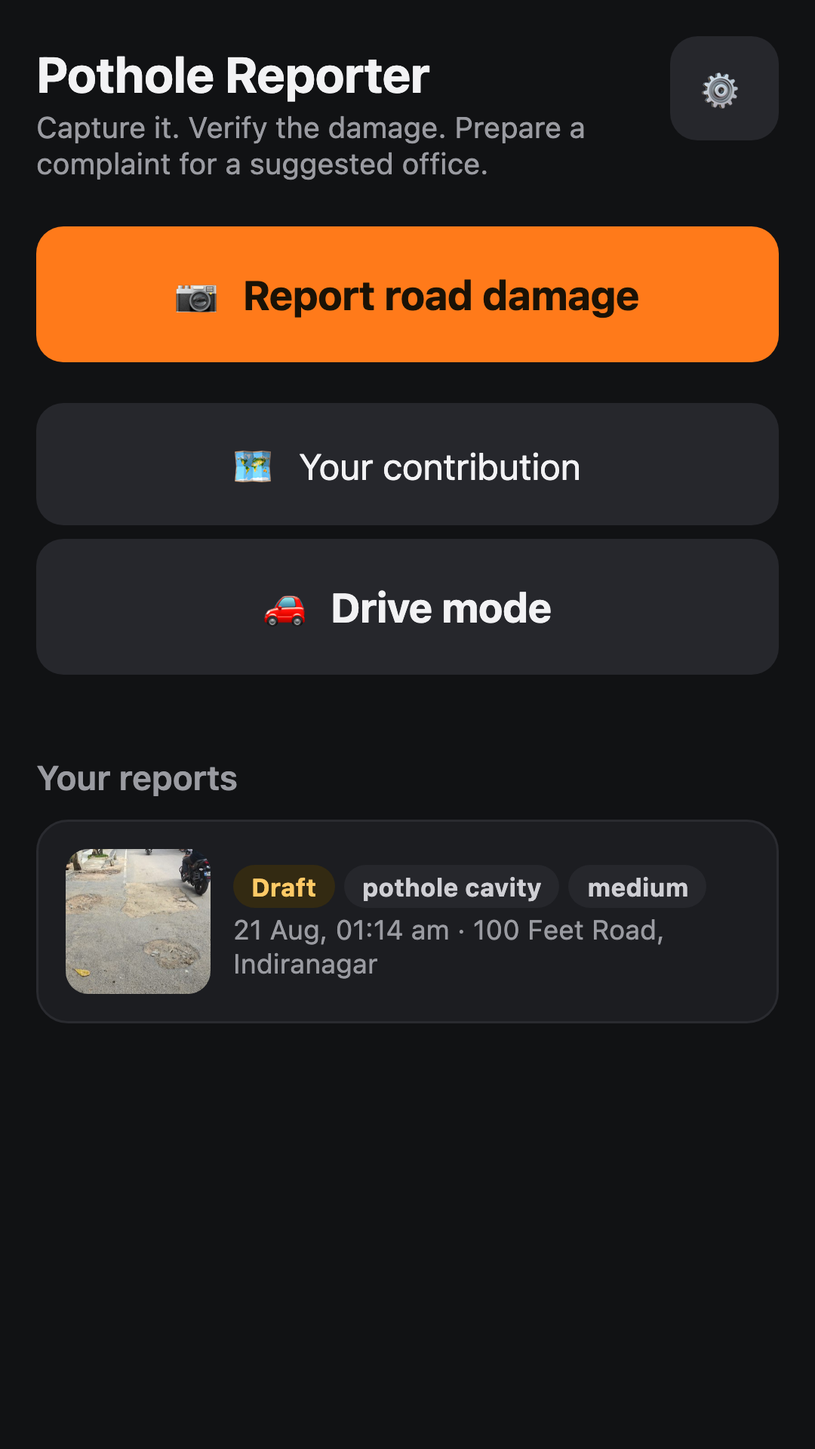
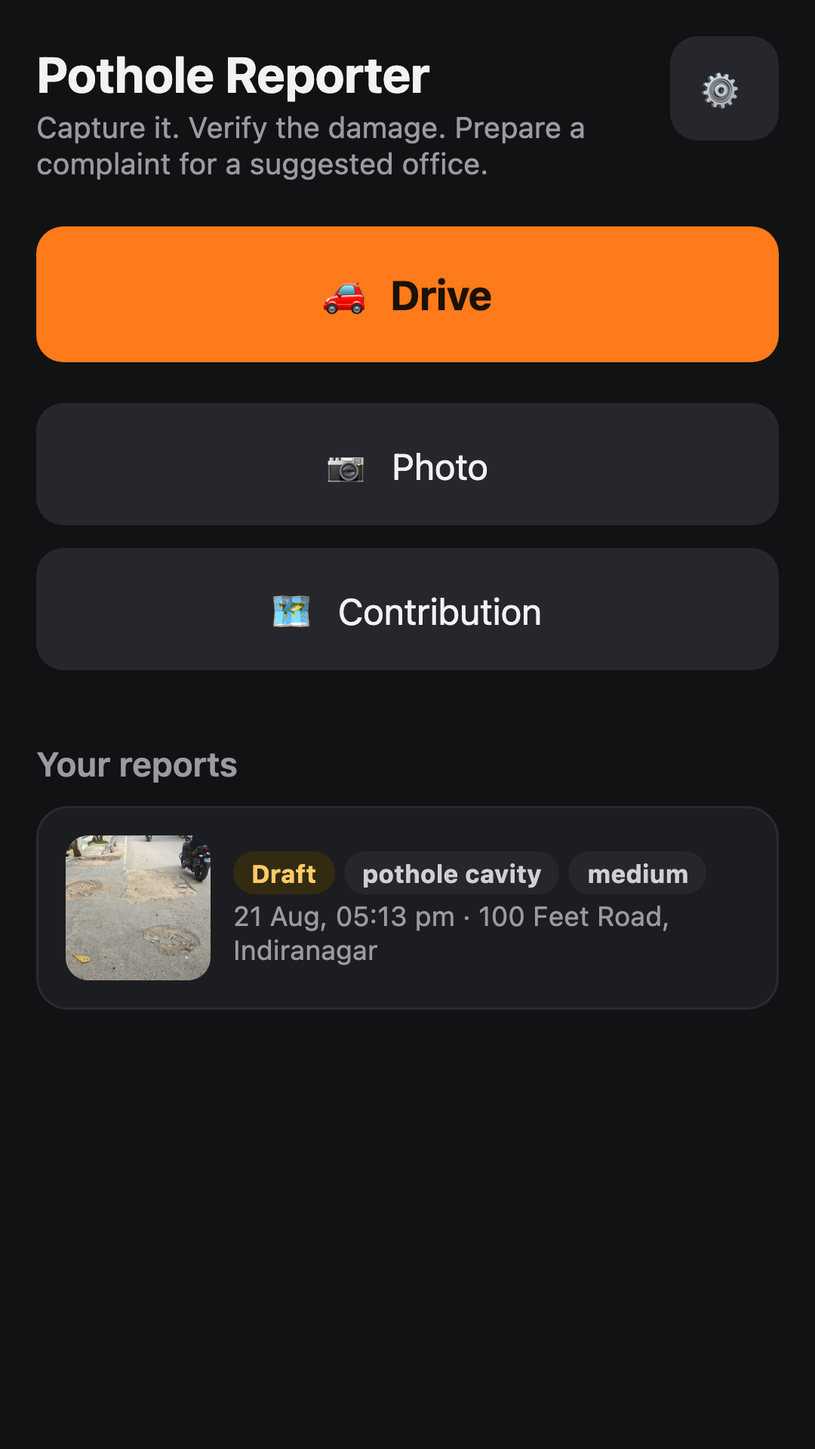
Simplify and prioritize home actions

diff --git a/android-app/www/index.html b/android-app/www/index.html
@@ -73,9 +73,9 @@
   <div id="banner" class="banner"></div>
 
   <div id="home">
-    <button class="primary" id="captureBtn">&#128247; &nbsp;Report road damage</button>
-    <button class="ghost" id="dashBtn" style="width:100%;margin-bottom:14px">&#128506;&#65039; &nbsp;Your contribution</button>
-    <button class="primary" id="driveBtn" style="background:#26272c;color:#f2f2f4;margin-top:-8px">&#128663; &nbsp;Drive mode</button>
+    <button class="primary" id="driveBtn">&#128663; &nbsp;Drive</button>
+    <button class="ghost" id="captureBtn" style="width:100%;margin-bottom:10px">&#128247; &nbsp;Photo</button>
+    <button class="ghost" id="dashBtn" style="width:100%;margin-bottom:14px">&#128506;&#65039; &nbsp;Contribution</button>
     <input type="file" id="fileInput" accept="image/*" capture="environment" class="hidden">
     <h2 id="reportsTitle">Your reports</h2>
     <div id="list"><div class="empty">No reports yet.</div></div>
@@ -225,8 +225,8 @@ const $ = (id) => document.getElementById(id);
 const I18N = {
   en: {
     sub: "Capture it. Verify the damage. Prepare a complaint for a suggested office.",
-    report_btn: "&#128247; &nbsp;Report road damage",
-    drive_btn: "&#128663; &nbsp;Drive mode",
+    report_btn: "&#128247; &nbsp;Photo",
+    drive_btn: "&#128663; &nbsp;Drive",
     your_reports: "Your reports",
     no_reports: "No reports yet.",
     banner_setup: "Setup needed: tap the gear icon and paste your OpenAI API key.",
@@ -265,7 +265,7 @@ const I18N = {
     no_address_help: "Road damage was confirmed and the responsible local body identified, but the app holds no official email for it and will not guess one. The photo and location are saved; the address can be added to the directory.",
     no_location_help: "Road damage was confirmed, but without a GPS fix the app cannot tell which corporation is responsible, so it will not address a complaint. The photo is saved.",
     review_btn: "Review and label frames", export_btn: "Export labelled dataset",
-    dash_btn: "&#128506;&#65039; &nbsp;Your contribution", dash_title: "Your contribution",
+    dash_btn: "&#128506;&#65039; &nbsp;Contribution", dash_title: "Your contribution",
     dash_range: "{days} of reporting · first on {first}",
     dash_empty: "No road damage reported yet. Your map fills up as you drive.",
     day_one: "1 day", day_many: "{n} days",
@@ -383,8 +383,8 @@ const I18N = {
   },
   kn: {
     sub: "ಫೋಟೋ ತೆಗೆಯಿರಿ. ಹಾನಿ ಪರಿಶೀಲಿಸಿ. ಸೂಚಿಸಿದ ಕಚೇರಿಗೆ ದೂರು ಕರಡು ಸಿದ್ಧಪಡಿಸಿ.",
-    report_btn: "&#128247; &nbsp;ರಸ್ತೆ ಹಾನಿ ವರದಿ ಮಾಡಿ",
-    drive_btn: "&#128663; &nbsp;ಡ್ರೈವ್ ಮೋಡ್",
+    report_btn: "&#128247; &nbsp;ಫೋಟೋ",
+    drive_btn: "&#128663; &nbsp;ಡ್ರೈವ್",
     your_reports: "ನಿಮ್ಮ ವರದಿಗಳು",
     no_reports: "ಇನ್ನೂ ವರದಿಗಳಿಲ್ಲ. ಗುಂಡಿ ಹುಡುಕಲು ಹೊರಡಿ.",
     banner_setup: "ಸೆಟಪ್ ಅಗತ್ಯ: ಗಿಯರ್ ಐಕಾನ್ ಒತ್ತಿ ನಿಮ್ಮ OpenAI API ಕೀ ಅಂಟಿಸಿ.",
@@ -423,7 +423,7 @@ const I18N = {
     no_address_help: "ಗುಂಡಿ ದೃಢಪಟ್ಟಿದೆ ಮತ್ತು ಜವಾಬ್ದಾರ ಸಂಸ್ಥೆ ಗುರುತಿಸಲಾಗಿದೆ, ಆದರೆ ಅದರ ಅಧಿಕೃತ ಇಮೇಲ್ ಆ್ಯಪ್ನಲ್ಲಿ ಇಲ್ಲ, ಮತ್ತು ಊಹಿಸುವುದಿಲ್ಲ. ಫೋಟೋ ಉಳಿಸಲಾಗಿದೆ.",
     no_location_help: "ಗುಂಡಿ ದೃಢಪಟ್ಟಿದೆ, ಆದರೆ GPS ಇಲ್ಲದೆ ಯಾವ ಪಾಲಿಕೆ ಜವಾಬ್ದಾರಿ ಎಂದು ತಿಳಿಯದು, ಆದ್ದರಿಂದ ದೂರು ಸಿದ್ಧಪಡಿಸಿಲ್ಲ. ಫೋಟೋ ಉಳಿಸಲಾಗಿದೆ.",
     review_btn: "ಫ್ರೇಮ್ಗಳನ್ನು ಪರಿಶೀಲಿಸಿ ಮತ್ತು ಗುರುತಿಸಿ", export_btn: "ಗುರುತಿಸಿದ ಡೇಟಾಸೆಟ್ ರಫ್ತು ಮಾಡಿ",
-    dash_btn: "&#128506;&#65039; &nbsp;ನಿಮ್ಮ ಕೊಡುಗೆ", dash_title: "ನಿಮ್ಮ ಕೊಡುಗೆ",
+    dash_btn: "&#128506;&#65039; &nbsp;ಕೊಡುಗೆ", dash_title: "ನಿಮ್ಮ ಕೊಡುಗೆ",
     dash_range: "{days} ವರದಿ · ಮೊದಲನೆಯದು {first}",
     dash_empty: "ಇನ್ನೂ ಗುಂಡಿಗಳ ವರದಿ ಇಲ್ಲ. ಡ್ರೈವ್ ಮಾಡಿದಂತೆ ನಕ್ಷೆ ತುಂಬುತ್ತದೆ.",
     day_one: "1 ದಿನ", day_many: "{n} ದಿನಗಳು",
@@ -534,8 +534,8 @@ const I18N = {
   },
   mr: {
     sub: "फोटो घ्या. नुकसान पडताळा. सुचवलेल्या कार्यालयासाठी तक्रारीचा मसुदा तयार करा.",
-    report_btn: "&#128247; &nbsp;रस्त्याचे नुकसान नोंदवा",
-    drive_btn: "&#128663; &nbsp;ड्राइव्ह मोड",
+    report_btn: "&#128247; &nbsp;फोटो",
+    drive_btn: "&#128663; &nbsp;ड्राइव्ह",
     your_reports: "तुमचे अहवाल",
     no_reports: "अजून कोणतेही अहवाल नाहीत.",
     banner_setup: "सेटअप आवश्यक: गिअर चिन्हावर टॅप करून तुमची OpenAI API की पेस्ट करा.",
@@ -576,7 +576,7 @@ const I18N = {
     no_address_help: "जबाबदार स्थानिक संस्था निश्चित झाली, पण तिचा अधिकृत ईमेल उपलब्ध नाही आणि अॅप अंदाजाने पत्ता वापरणार नाही. फोटो आणि स्थान जतन केले आहे.",
     no_location_help: "रस्त्याचे नुकसान निश्चित झाले, पण GPS स्थानाशिवाय जबाबदार महानगरपालिका ओळखता येत नाही. फोटो जतन केला आहे.",
     review_btn: "फ्रेम्स तपासा आणि लेबल करा", export_btn: "लेबल केलेला डेटासेट निर्यात करा",
-    dash_btn: "&#128506;&#65039; &nbsp;तुमचे योगदान", dash_title: "तुमचे योगदान",
+    dash_btn: "&#128506;&#65039; &nbsp;योगदान", dash_title: "तुमचे योगदान",
     dash_range: "{days} चा अहवाल · पहिली नोंद {first}",
     dash_empty: "अजून रस्त्याचे नुकसान नोंदवलेले नाही. तुम्ही वाहन चालवल्यावर नकाशा भरत जाईल.",
     day_one: "1 दिवस", day_many: "{n} दिवस",
@@ -675,8 +675,8 @@ const I18N = {
   },
   bn: {
     sub: "ছবি তুলুন। ক্ষতি যাচাই করুন। প্রস্তাবিত দপ্তরের জন্য অভিযোগের খসড়া তৈরি করুন।",
-    report_btn: "&#128247; &nbsp;রাস্তার ক্ষতির অভিযোগ জানান",
-    drive_btn: "&#128663; &nbsp;ড্রাইভ মোড",
+    report_btn: "&#128247; &nbsp;ছবি",
+    drive_btn: "&#128663; &nbsp;ড্রাইভ",
     your_reports: "আপনার রিপোর্ট",
     no_reports: "এখনও কোনও রিপোর্ট নেই।",
     banner_setup: "সেটআপ প্রয়োজন: গিয়ার আইকনে ট্যাপ করে আপনার OpenAI API key পেস্ট করুন।",
@@ -715,7 +715,7 @@ const I18N = {
     no_address_help: "রাস্তার ক্ষতি এবং সংশ্লিষ্ট স্থানীয় সংস্থা শনাক্ত হয়েছে, কিন্তু অ্যাপে তার কোনও সরকারি ইমেল নেই এবং অ্যাপটি ঠিকানা অনুমান করবে না। ছবি ও অবস্থান সংরক্ষিত আছে; যাচাই করা ঠিকানা পরে ডিরেক্টরিতে যোগ করা যাবে।",
     no_location_help: "রাস্তার ক্ষতি নিশ্চিত হয়েছে, কিন্তু GPS অবস্থান ছাড়া কোন পৌরসংস্থা দায়িত্বে তা জানা যায় না। তাই অভিযোগে কোনও প্রাপক দেওয়া হয়নি। ছবিটি সংরক্ষিত আছে।",
     review_btn: "ফ্রেম যাচাই করে লেবেল দিন", export_btn: "লেবেল দেওয়া ডেটাসেট এক্সপোর্ট করুন",
-    dash_btn: "&#128506;&#65039; &nbsp;আপনার অবদান", dash_title: "আপনার অবদান",
+    dash_btn: "&#128506;&#65039; &nbsp;অবদান", dash_title: "আপনার অবদান",
     dash_range: "{days} ধরে রিপোর্ট · প্রথম রিপোর্ট {first}",
     dash_empty: "এখনও রাস্তার কোনও ক্ষতি রিপোর্ট করা হয়নি। ড্রাইভ করার সঙ্গে সঙ্গে আপনার মানচিত্র পূর্ণ হবে।",
     day_one: "1 দিন", day_many: "{n} দিন",

diff --git a/static/index.html b/static/index.html
@@ -73,9 +73,9 @@
   <div id="banner" class="banner"></div>
 
   <div id="home">
-    <button class="primary" id="captureBtn">&#128247; &nbsp;Report road damage</button>
-    <button class="ghost" id="dashBtn" style="width:100%;margin-bottom:14px">&#128506;&#65039; &nbsp;Your contribution</button>
-    <button class="primary" id="driveBtn" style="background:#26272c;color:#f2f2f4;margin-top:-8px">&#128663; &nbsp;Drive mode</button>
+    <button class="primary" id="driveBtn">&#128663; &nbsp;Drive</button>
+    <button class="ghost" id="captureBtn" style="width:100%;margin-bottom:10px">&#128247; &nbsp;Photo</button>
+    <button class="ghost" id="dashBtn" style="width:100%;margin-bottom:14px">&#128506;&#65039; &nbsp;Contribution</button>
     <input type="file" id="fileInput" accept="image/*" capture="environment" class="hidden">
     <h2 id="reportsTitle">Your reports</h2>
     <div id="list"><div class="empty">No reports yet.</div></div>
@@ -225,8 +225,8 @@ const $ = (id) => document.getElementById(id);
 const I18N = {
   en: {
     sub: "Capture it. Verify the damage. Prepare a complaint for a suggested office.",
-    report_btn: "&#128247; &nbsp;Report road damage",
-    drive_btn: "&#128663; &nbsp;Drive mode",
+    report_btn: "&#128247; &nbsp;Photo",
+    drive_btn: "&#128663; &nbsp;Drive",
     your_reports: "Your reports",
     no_reports: "No reports yet.",
     banner_setup: "Setup needed: tap the gear icon and paste your OpenAI API key.",
@@ -265,7 +265,7 @@ const I18N = {
     no_address_help: "Road damage was confirmed and the responsible local body identified, but the app holds no official email for it and will not guess one. The photo and location are saved; the address can be added to the directory.",
     no_location_help: "Road damage was confirmed, but without a GPS fix the app cannot tell which corporation is responsible, so it will not address a complaint. The photo is saved.",
     review_btn: "Review and label frames", export_btn: "Export labelled dataset",
-    dash_btn: "&#128506;&#65039; &nbsp;Your contribution", dash_title: "Your contribution",
+    dash_btn: "&#128506;&#65039; &nbsp;Contribution", dash_title: "Your contribution",
     dash_range: "{days} of reporting · first on {first}",
     dash_empty: "No road damage reported yet. Your map fills up as you drive.",
     day_one: "1 day", day_many: "{n} days",
@@ -383,8 +383,8 @@ const I18N = {
   },
   kn: {
     sub: "ಫೋಟೋ ತೆಗೆಯಿರಿ. ಹಾನಿ ಪರಿಶೀಲಿಸಿ. ಸೂಚಿಸಿದ ಕಚೇರಿಗೆ ದೂರು ಕರಡು ಸಿದ್ಧಪಡಿಸಿ.",
-    report_btn: "&#128247; &nbsp;ರಸ್ತೆ ಹಾನಿ ವರದಿ ಮಾಡಿ",
-    drive_btn: "&#128663; &nbsp;ಡ್ರೈವ್ ಮೋಡ್",
+    report_btn: "&#128247; &nbsp;ಫೋಟೋ",
+    drive_btn: "&#128663; &nbsp;ಡ್ರೈವ್",
     your_reports: "ನಿಮ್ಮ ವರದಿಗಳು",
     no_reports: "ಇನ್ನೂ ವರದಿಗಳಿಲ್ಲ. ಗುಂಡಿ ಹುಡುಕಲು ಹೊರಡಿ.",
     banner_setup: "ಸೆಟಪ್ ಅಗತ್ಯ: ಗಿಯರ್ ಐಕಾನ್ ಒತ್ತಿ ನಿಮ್ಮ OpenAI API ಕೀ ಅಂಟಿಸಿ.",
@@ -423,7 +423,7 @@ const I18N = {
     no_address_help: "ಗುಂಡಿ ದೃಢಪಟ್ಟಿದೆ ಮತ್ತು ಜವಾಬ್ದಾರ ಸಂಸ್ಥೆ ಗುರುತಿಸಲಾಗಿದೆ, ಆದರೆ ಅದರ ಅಧಿಕೃತ ಇಮೇಲ್ ಆ್ಯಪ್ನಲ್ಲಿ ಇಲ್ಲ, ಮತ್ತು ಊಹಿಸುವುದಿಲ್ಲ. ಫೋಟೋ ಉಳಿಸಲಾಗಿದೆ.",
     no_location_help: "ಗುಂಡಿ ದೃಢಪಟ್ಟಿದೆ, ಆದರೆ GPS ಇಲ್ಲದೆ ಯಾವ ಪಾಲಿಕೆ ಜವಾಬ್ದಾರಿ ಎಂದು ತಿಳಿಯದು, ಆದ್ದರಿಂದ ದೂರು ಸಿದ್ಧಪಡಿಸಿಲ್ಲ. ಫೋಟೋ ಉಳಿಸಲಾಗಿದೆ.",
     review_btn: "ಫ್ರೇಮ್ಗಳನ್ನು ಪರಿಶೀಲಿಸಿ ಮತ್ತು ಗುರುತಿಸಿ", export_btn: "ಗುರುತಿಸಿದ ಡೇಟಾಸೆಟ್ ರಫ್ತು ಮಾಡಿ",
-    dash_btn: "&#128506;&#65039; &nbsp;ನಿಮ್ಮ ಕೊಡುಗೆ", dash_title: "ನಿಮ್ಮ ಕೊಡುಗೆ",
+    dash_btn: "&#128506;&#65039; &nbsp;ಕೊಡುಗೆ", dash_title: "ನಿಮ್ಮ ಕೊಡುಗೆ",
     dash_range: "{days} ವರದಿ · ಮೊದಲನೆಯದು {first}",
     dash_empty: "ಇನ್ನೂ ಗುಂಡಿಗಳ ವರದಿ ಇಲ್ಲ. ಡ್ರೈವ್ ಮಾಡಿದಂತೆ ನಕ್ಷೆ ತುಂಬುತ್ತದೆ.",
     day_one: "1 ದಿನ", day_many: "{n} ದಿನಗಳು",
@@ -534,8 +534,8 @@ const I18N = {
   },
   mr: {
     sub: "फोटो घ्या. नुकसान पडताळा. सुचवलेल्या कार्यालयासाठी तक्रारीचा मसुदा तयार करा.",
-    report_btn: "&#128247; &nbsp;रस्त्याचे नुकसान नोंदवा",
-    drive_btn: "&#128663; &nbsp;ड्राइव्ह मोड",
+    report_btn: "&#128247; &nbsp;फोटो",
+    drive_btn: "&#128663; &nbsp;ड्राइव्ह",
     your_reports: "तुमचे अहवाल",
     no_reports: "अजून कोणतेही अहवाल नाहीत.",
     banner_setup: "सेटअप आवश्यक: गिअर चिन्हावर टॅप करून तुमची OpenAI API की पेस्ट करा.",
@@ -576,7 +576,7 @@ const I18N = {
     no_address_help: "जबाबदार स्थानिक संस्था निश्चित झाली, पण तिचा अधिकृत ईमेल उपलब्ध नाही आणि अॅप अंदाजाने पत्ता वापरणार नाही. फोटो आणि स्थान जतन केले आहे.",
     no_location_help: "रस्त्याचे नुकसान निश्चित झाले, पण GPS स्थानाशिवाय जबाबदार महानगरपालिका ओळखता येत नाही. फोटो जतन केला आहे.",
     review_btn: "फ्रेम्स तपासा आणि लेबल करा", export_btn: "लेबल केलेला डेटासेट निर्यात करा",
-    dash_btn: "&#128506;&#65039; &nbsp;तुमचे योगदान", dash_title: "तुमचे योगदान",
+    dash_btn: "&#128506;&#65039; &nbsp;योगदान", dash_title: "तुमचे योगदान",
     dash_range: "{days} चा अहवाल · पहिली नोंद {first}",
     dash_empty: "अजून रस्त्याचे नुकसान नोंदवलेले नाही. तुम्ही वाहन चालवल्यावर नकाशा भरत जाईल.",
     day_one: "1 दिवस", day_many: "{n} दिवस",
@@ -675,8 +675,8 @@ const I18N = {
   },
   bn: {
     sub: "ছবি তুলুন। ক্ষতি যাচাই করুন। প্রস্তাবিত দপ্তরের জন্য অভিযোগের খসড়া তৈরি করুন।",
-    report_btn: "&#128247; &nbsp;রাস্তার ক্ষতির অভিযোগ জানান",
-    drive_btn: "&#128663; &nbsp;ড্রাইভ মোড",
+    report_btn: "&#128247; &nbsp;ছবি",
+    drive_btn: "&#128663; &nbsp;ড্রাইভ",
     your_reports: "আপনার রিপোর্ট",
     no_reports: "এখনও কোনও রিপোর্ট নেই।",
     banner_setup: "সেটআপ প্রয়োজন: গিয়ার আইকনে ট্যাপ করে আপনার OpenAI API key পেস্ট করুন।",
@@ -715,7 +715,7 @@ const I18N = {
     no_address_help: "রাস্তার ক্ষতি এবং সংশ্লিষ্ট স্থানীয় সংস্থা শনাক্ত হয়েছে, কিন্তু অ্যাপে তার কোনও সরকারি ইমেল নেই এবং অ্যাপটি ঠিকানা অনুমান করবে না। ছবি ও অবস্থান সংরক্ষিত আছে; যাচাই করা ঠিকানা পরে ডিরেক্টরিতে যোগ করা যাবে।",
     no_location_help: "রাস্তার ক্ষতি নিশ্চিত হয়েছে, কিন্তু GPS অবস্থান ছাড়া কোন পৌরসংস্থা দায়িত্বে তা জানা যায় না। তাই অভিযোগে কোনও প্রাপক দেওয়া হয়নি। ছবিটি সংরক্ষিত আছে।",
     review_btn: "ফ্রেম যাচাই করে লেবেল দিন", export_btn: "লেবেল দেওয়া ডেটাসেট এক্সপোর্ট করুন",
-    dash_btn: "&#128506;&#65039; &nbsp;আপনার অবদান", dash_title: "আপনার অবদান",
+    dash_btn: "&#128506;&#65039; &nbsp;অবদান", dash_title: "আপনার অবদান",
     dash_range: "{days} ধরে রিপোর্ট · প্রথম রিপোর্ট {first}",
     dash_empty: "এখনও রাস্তার কোনও ক্ষতি রিপোর্ট করা হয়নি। ড্রাইভ করার সঙ্গে সঙ্গে আপনার মানচিত্র পূর্ণ হবে।",
     day_one: "1 দিন", day_many: "{n} দিন",

diff --git a/tests/home_actions_test.py b/tests/home_actions_test.py
@@ -1,0 +1,93 @@
+# -*- coding: utf-8 -*-
+"""The home screen must lead with one-word, highlighted Drive action."""
+import sys
+
+from playwright.sync_api import sync_playwright
+
+
+APP = "http://localhost:8765/"
+
+SCENARIO = r"""
+() => {
+  const checks = [];
+  const eq = (name, got, want) => checks.push([
+    name, JSON.stringify(got) === JSON.stringify(want), got, want,
+  ]);
+  const ok = (name, value, detail) => checks.push([
+    name, !!value, detail === undefined ? value : detail, true,
+  ]);
+  const word = (html) => {
+    const node = document.createElement("div");
+    node.innerHTML = html;
+    return node.textContent.replace(/^[^\p{L}\p{N}]+/u, "").trim();
+  };
+
+  const buttons = [...document.querySelectorAll("#home > button")];
+  eq("order: Drive is the first home action",
+     buttons.map((button) => button.id), ["driveBtn", "captureBtn", "dashBtn"]);
+  ok("hierarchy: Drive alone uses the primary style",
+     buttons[0].classList.contains("primary")
+       && !buttons[1].classList.contains("primary")
+       && !buttons[2].classList.contains("primary"),
+     buttons.map((button) => button.className));
+  ok("hierarchy: Drive renders in the orange highlight",
+     getComputedStyle(buttons[0]).backgroundColor === "rgb(255, 122, 26)",
+     getComputedStyle(buttons[0]).backgroundColor);
+  ok("layout: Drive is visually above Photo and Contribution",
+     buttons[0].getBoundingClientRect().top < buttons[1].getBoundingClientRect().top
+       && buttons[1].getBoundingClientRect().top < buttons[2].getBoundingClientRect().top,
+     buttons.map((button) => button.getBoundingClientRect().top));
+
+  const expected = {
+    en: ["Drive", "Photo", "Contribution"],
+    kn: ["ಡ್ರೈವ್", "ಫೋಟೋ", "ಕೊಡುಗೆ"],
+    mr: ["ड्राइव्ह", "फोटो", "योगदान"],
+    bn: ["ড্রাইভ", "ছবি", "অবদান"],
+  };
+  for (const [language, labels] of Object.entries(expected)) {
+    const actual = [I18N[language].drive_btn, I18N[language].report_btn,
+                    I18N[language].dash_btn].map(word);
+    eq(`copy: ${language} home actions are the approved words`, actual, labels);
+    ok(`copy: ${language} actions are each one word`,
+       actual.every((label) => !/\s/u.test(label)), actual);
+  }
+
+  eq("render: English home actions match their localized values",
+     buttons.map((button) => button.textContent.replace(/^[^\p{L}\p{N}]+/u, "").trim()),
+     expected.en);
+  return checks;
+}
+"""
+
+
+def main():
+    failures = []
+    with sync_playwright() as playwright:
+        browser = playwright.chromium.launch(args=["--disable-web-security"])
+        context = browser.new_context(viewport={"width": 390, "height": 844})
+        context.add_init_script(
+            "localStorage.setItem('openai_key', 'test-key-never-sent');"
+            "localStorage.setItem('app_lang', 'en');"
+        )
+        page = context.new_page()
+        page.goto(APP)
+        page.wait_for_load_state("networkidle")
+        page.wait_for_function(
+            "typeof I18N !== 'undefined' && document.getElementById('driveBtn')",
+            timeout=30000,
+        )
+        results = page.evaluate(SCENARIO)
+        context.close()
+        browser.close()
+
+    for name, passed, got, want in results:
+        if not passed:
+            failures.append(name)
+            print(f"  FAIL {name}\n         got  {got}\n         want {want}")
+    if failures:
+        print(f"{len(failures)} of {len(results)} failed")
+        sys.exit(1)
+    print(f"HOME ACTIONS TEST PASS ({len(results)} checks)")
+
+
+main()

diff --git a/tests/kolkata_ui_test.py b/tests/kolkata_ui_test.py
@@ -37,8 +37,9 @@ async () => {
   eq("i18n: selector exposes four languages",
      [...document.querySelectorAll("#setLang option")].map((x) => x.value),
      ["en", "kn", "mr", "bn"]);
-  ok("i18n: visible capture action is Bengali",
-     /রাস্তার ক্ষতির অভিযোগ/.test(document.getElementById("captureBtn").textContent),
+  ok("i18n: visible capture action is concise Bengali",
+     document.getElementById("captureBtn").textContent
+       .replace(/^[^\p{L}\p{N}]+/u, "").trim() === "ছবি",
      document.getElementById("captureBtn").textContent);
   ok("i18n: visible disclosure is Bengali and names OpenAI",
      /OpenAI/.test(document.getElementById("privacyBody").textContent)

diff --git a/store-assets/google-play-checklist.md b/store-assets/google-play-checklist.md
@@ -1,13 +1,13 @@
 # Google Play publication checklist
 
-Status reviewed 21 August 2026 for release 1.16.0 / version code 31. This is a release
+Status reviewed 21 August 2026 for release 1.16.1 / version code 32. This is a release
 checklist, not a substitute for the current Play Console tasks shown for the publisher's account.
 
 ## Go/no-go blockers
 
 - [x] **Target API:** the Android project targets API 36, meeting the mobile-app rule that
   starts 31 August 2026. Recheck before every later update.
-- [ ] **Fresh signed release bundle:** build version 1.16.0/code 31 after the KMC changes,
+- [ ] **Fresh signed release bundle:** build version 1.16.1/code 32 after the home-action changes,
   confirm it is non-debuggable and signed with the upload key kept outside Git, then inspect
   it in Play Console. Earlier bundles do not contain this coverage.
 - [ ] **Hosted privacy page:** enable a stable public host, then verify
@@ -71,7 +71,7 @@ Official references: [target API schedule](https://support.google.com/googleplay
 - [ ] Paste the reviewed title, short description, full description, and release notes from
   [`google-play-listing.md`](google-play-listing.md).
 - [ ] Replace or re-verify the icon, feature graphic, and four phone screenshots against
-  the 1.16.0 release. Include independent Maharashtra and Kolkata handoffs and regional
+  the 1.16.1 release. Include independent Maharashtra and Kolkata handoffs and regional
   language support without displaying private coordinates, an API key, a real grievance
   ID, or civic-body marks.
 - [ ] Use screenshots from the release build and avoid implying government affiliation,

diff --git a/store-assets/google-play-listing.md b/store-assets/google-play-listing.md
@@ -61,10 +61,10 @@ https://coding-parrot.github.io/pothole-reporter/sources.html
 Current routing targets the MMR, PMC, KMC, and supported Karnataka urban local bodies. Locations outside these routes are saved locally but not addressed to an authority.
 ```
 
-## Release notes (1.16.0 / version code 31)
+## Release notes (1.16.1 / version code 32)
 
 ```text
-Added current Kolkata Municipal Corporation coverage using the official West Bengal UDMA boundary, Bengali, and user-controlled KMC Grievance 2.0, official app, WhatsApp, and helpline handoffs. Howrah, Bidhannagar/Salt Lake, and New Town are outside this route. Authority suggestions do not prove road ownership, and complaints are never filed automatically.
+Simplified the home screen to three clear actions: Drive, Photo and Contribution. Drive is now first and highlighted for faster, safer hands-free setup before moving.
 ```
 
 ## Play Console fields
